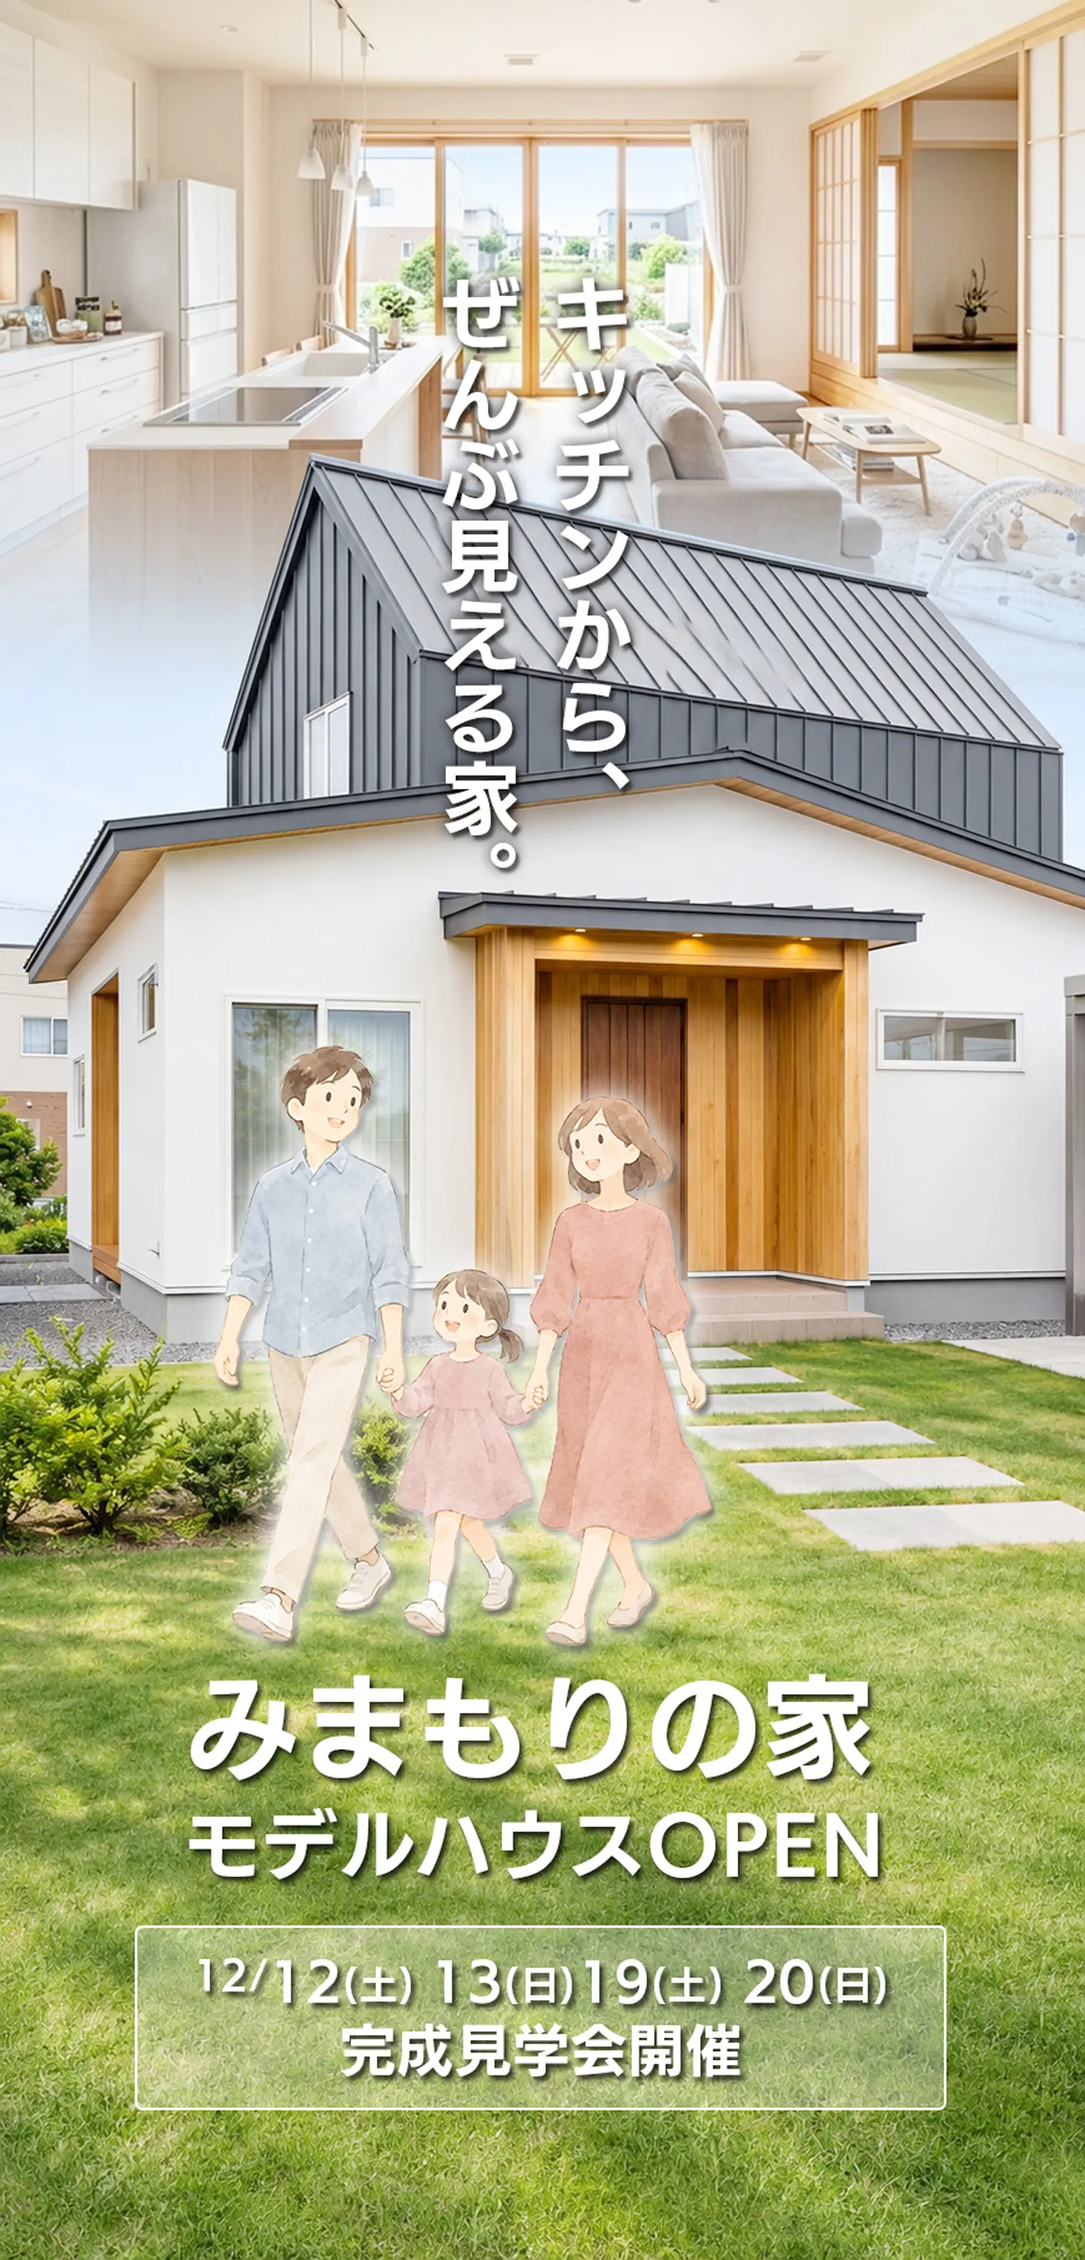
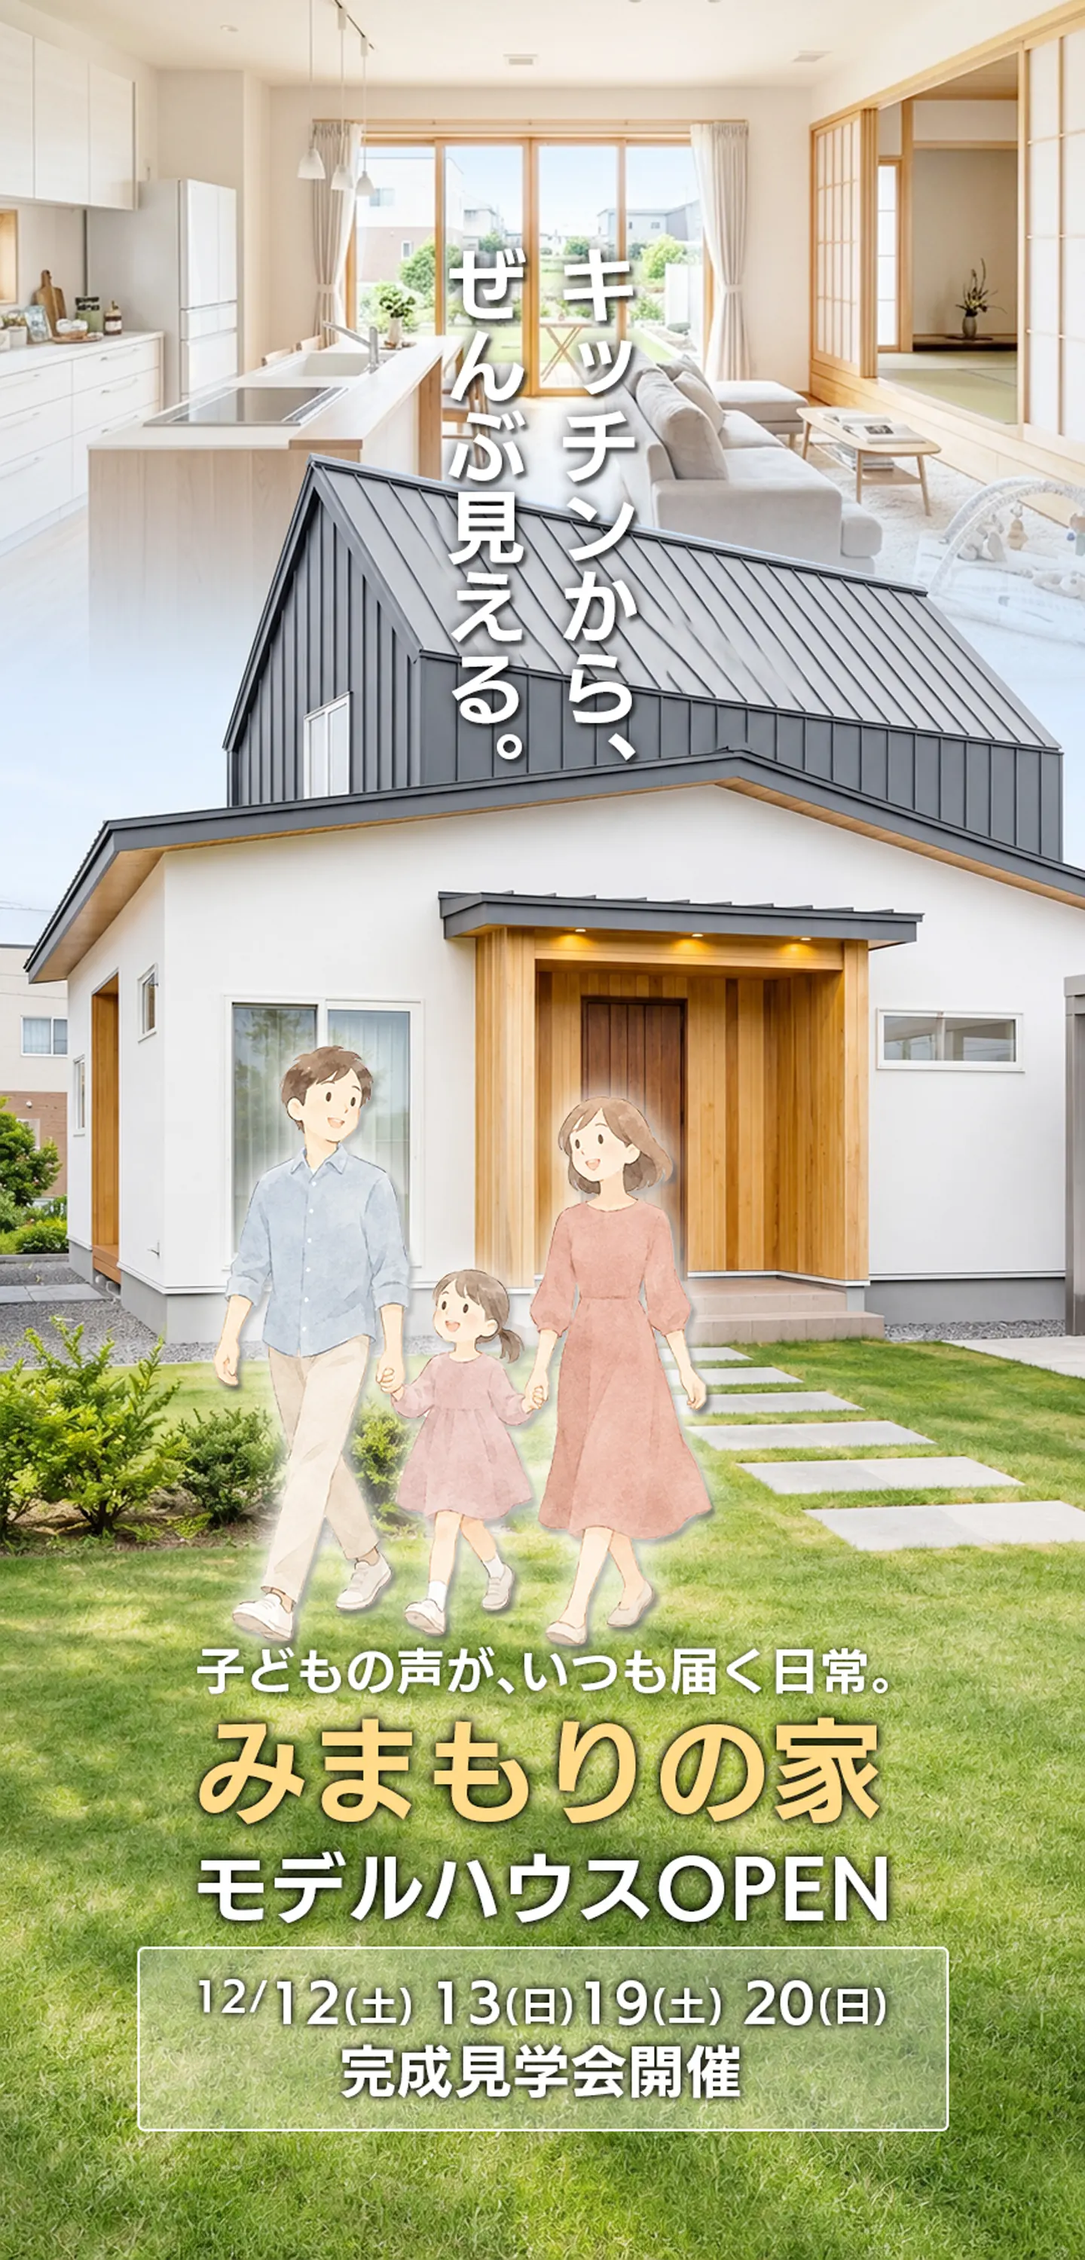
FVを新原画(firstview_v2)に合わせて更新、会場表記を自社モデルハウスに統一
- 縦キャッチを「キッチンから、ぜんぶ見える。」に変更（aria/alt/meta も合わせて更新）
- 新規リード「子どもの声が、いつも届く日常。」を追加（モーションはキャッチとタイトルの間）
- 「みまもりの家」をマスタード(#FFDA8A基準の控えめなグラデ＋ドロップシャドウ)に変更
- タイトル・OPEN・日付枠の縦位置を原画に再計測して調整、ステージ下端を日付枠の下まで表示
- 文字入りFV画像(fv-comp-*)を新原画から再生成（1440/720・webp/jpg）
- 「K様邸」「お施主様」表記を削除し、会場を「つむぐホーム モデルハウス「みまもりの家」」に統一（番地は確定後に記載）

Changed region(s): [[0.125, 0.7132, 0.875, 0.9613], [0.4062, 0.093, 0.5938, 0.4031]]

diff --git a/index.html b/index.html
@@ -5,7 +5,7 @@
 <meta name="viewport" content="width=device-width, initial-scale=1, viewport-fit=cover">
 <title>みまもりの家 モデルハウスOPEN｜住宅見学会・ご予約｜株式会社つむぐホーム</title>
 <!-- 仮コピー -->
-<meta name="description" content="キッチンから、ぜんぶ見える。新潟市中央区美沢台2丁目のモデルハウス「みまもりの家」見学会。見学無料・お子様連れ歓迎。WEB予約でQUOカード500円分プレゼント。">
+<meta name="description" content="キッチンから、ぜんぶ見える。新潟市中央区美沢台2丁目、つむぐホーム モデルハウス「みまもりの家」の見学会。見学無料・お子様連れ歓迎。WEB予約でQUOカード500円分プレゼント。">
 <meta name="theme-color" content="#FAF7F0">
 <link rel="preconnect" href="https://fonts.googleapis.com">
 <link rel="preconnect" href="https://fonts.gstatic.com" crossorigin>
@@ -72,7 +72,7 @@
 </svg>
 
 <div class="fv" id="top">
-  <!-- FV：文字なし背景（images/fv-bg-*）＋HTML文字。デザイン原画（Photoshop）は firstview.jpg（1440×2999）。
+  <!-- FV：文字なし背景（images/fv-bg-*）＋HTML文字。デザイン原画（Photoshop）は firstview_v2.jpg（1440×2999）。
        ▼ 切り替え：文字入り1枚モードにするには、styles.css の「FV表示モード」の2行を入れ替える（既定＝HTML文字版） -->
   <div class="fv__stage">
     <picture>
@@ -85,11 +85,12 @@
       <source type="image/webp" srcset="images/fv-comp-720.webp 720w, images/fv-comp-1440.webp 1440w" sizes="(min-width: 1024px) 48vh, 100vw">
       <img src="images/fv-comp-720.jpg" srcset="images/fv-comp-720.jpg 720w, images/fv-comp-1440.jpg 1440w" sizes="(min-width: 1024px) 48vh, 100vw"
            width="720" height="1500" loading="lazy" decoding="async"
-           alt="白い壁と黒い屋根のモデルハウス「みまもりの家」の前を歩く親子3人。「キッチンから、ぜんぶ見える家。」みまもりの家 モデルハウスOPEN。12月12日(土)・13日(日)・19日(土)・20日(日) 完成見学会開催。">
+           alt="白い壁と黒い屋根のモデルハウス「みまもりの家」の前を歩く親子3人。「キッチンから、ぜんぶ見える。」「子どもの声が、いつも届く日常。」みまもりの家 モデルハウスOPEN。12月12日(土)・13日(日)・19日(土)・20日(日) 完成見学会開催。">
     </picture>
     <!-- 下部の文字（ステージ基準＝画像と同じ位置に載る） -->
     <div class="fv__text fv__bottom">
-      <h1 class="fv__name"><span class="fv__name-t">みまもりの家</span><span class="fv__open">モデルハウスOPEN</span></h1>
+      <p class="fv__lead">子どもの声が、いつも届く日常。</p>
+      <h1 class="fv__name"><span class="fv__name-t"><span class="fv__name-g">みまもりの家</span></span><span class="fv__open">モデルハウスOPEN</span></h1>
       <!-- 仮：日付確定後に差し替え（FV・03の表・フォーム js/main.js の EVENT_DATES を合わせる） -->
       <div class="fv__date">
         <p class="fv__date-d"><span><sup>12/</sup>12<small>(土)</small></span> <span>13<small>(日)</small></span> <span>19<small>(土)</small></span> <span>20<small>(日)</small></span></p>
@@ -98,7 +99,7 @@
     </div>
   </div>
   <!-- 縦書き（コンテナ基準：短い画面では画像が上にずれるため、上端を確保して家族に重ねない） -->
-  <p class="fv__text fv__tate"><span>キッチンから、</span><span>ぜんぶ見える家。</span></p>
+  <p class="fv__text fv__tate"><span>キッチンから、</span><span>ぜんぶ見える。</span></p>
 </div>
 
 <main id="main" class="main">
@@ -119,7 +120,7 @@
     <table class="info-table">
       <caption class="visually-hidden">モデルハウス見学会の開催情報</caption>
       <tbody>
-        <tr><th scope="row">所在地</th><td>新潟市中央区美沢台2丁目（K様邸）</td></tr>
+        <tr><th scope="row">会場</th><td>つむぐホーム モデルハウス「みまもりの家」<br>新潟市中央区美沢台2丁目<span class="tentative">仮</span><small class="access__tbd">※番地は確定後に記載</small></td></tr>
         <!-- ▼▼ 開催日（仮）：確定後に差し替えてください。FVの帯・丸バッジ、フォームの日付（js/main.js の EVENT_DATES）も合わせて変更 ▼▼ -->
         <tr><th scope="row">開催日</th><td>2026年12月12日(土)・13日(日)<br>19日(土)・20日(日)<span class="tentative">仮</span></td></tr>
         <!-- ▲▲ 開催日（仮）ここまで ▲▲ -->
@@ -170,8 +171,7 @@
              width="480" height="634" loading="lazy" decoding="async" alt="ウッドデッキと芝生の庭から見たみまもりの家の水彩イラスト。">
       </picture>
       <figcaption>
-        <span class="worldview__quote">「キッチンからデッキの子どもにも声が届くのが、この家の決め手でした」</span>
-        <span class="worldview__who">（30代ご夫婦＋お子様1人）</span>
+        <span class="worldview__quote">「キッチンからデッキの子どもにも、声が届く。」</span>
         <small>※外観パースはイメージです</small>
       </figcaption>
     </figure>
@@ -424,7 +424,7 @@
       <div class="perk__badge"><small>ご予約来場特典</small><b>QUOカード</b><strong>500円分</strong><em>プレゼント！</em></div>
       <p class="perk__text">WEBまたはお電話でご予約ください<small>（前日まで受付）</small></p>
     </div>
-    <p class="note note--light">※お施主様のご厚意による公開のため、室内の撮影はご遠慮ください。<br>※混雑時はお待ちいただく場合があります。</p>
+    <p class="note note--light">※ご来場の皆さまへの配慮のため、室内の撮影はご遠慮ください。<br>※混雑時はお待ちいただく場合があります。</p>
     <div class="also">
       <p class="also__label">同時開催</p>
       <p><strong>スマートホーム説明会</strong><br>スマートフォン等から遠隔操作や自動化によって、暮らしの利便性や快適性を高める仕組みをご紹介。</p>
@@ -443,7 +443,7 @@
       <details><summary>子ども連れでも大丈夫ですか？</summary><p>お子様連れ歓迎です。見学は無料です。</p></details>
       <details><summary>見学にはどのくらい時間がかかりますか？</summary><p>ご見学は30分ほどから、現地スタッフがご案内します。</p></details>
       <details><summary>駐車場はありますか？</summary><p>駐車場は2台分です（バリアフリー優先駐車場あり）。満車の際は係員の誘導に従ってください。</p></details>
-      <details><summary>室内の写真を撮ってもいいですか？</summary><p>お施主様のご厚意による公開のため、室内の撮影はご遠慮ください。仕様書・図面集は会場でお配りしています。</p></details>
+      <details><summary>室内の写真を撮ってもいいですか？</summary><p>ご来場の皆さまへの配慮のため、室内の撮影はご遠慮ください。仕様書・図面集は会場でお配りしています。</p></details>
       <details><summary>QUOカードはどうすればもらえますか？</summary><p>ご予約のうえご来場いただいた方に、QUOカード500円分をプレゼントします。</p></details>
     </div>
   </div>
@@ -452,7 +452,7 @@
   <div class="inner">
     <p class="eyebrow">ACCESS</p>
     <h2 class="h-serif" id="access-title">交通のご案内</h2>
-    <p class="access__place">会場：新潟市中央区美沢台2丁目 K様邸</p>
+    <p class="access__place">会場：つむぐホーム モデルハウス「みまもりの家」<br>新潟市中央区美沢台2丁目<small class="access__tbd">※番地は確定後に記載</small></p>
     <!-- 地図プレースホルダー：本番では Google マップ等の埋め込み、または地図画像に差し替えてください -->
     <div class="map-placeholder" role="img" aria-label="地図（準備中）。美沢台駅から駅前通りを南へ、国道8号を越えて中央公園の南側が会場です。">
       <span>MAP（準備中）</span>

diff --git a/css/styles.css b/css/styles.css
@@ -211,6 +211,7 @@ p + p{margin-top:1em}
    ========================================================= */
 .access{background:var(--cream)}
 .access__place{font-weight:700;margin-bottom:14px}
+.access__tbd{display:block;font-weight:400;font-size:12px;line-height:1.5;color:var(--ink-2);margin-top:2px}
 .map-placeholder{aspect-ratio:16/10;border-radius:var(--radius);border:2px dashed #B9B39F;background:#EFEBDF;display:grid;place-content:center;text-align:center;color:var(--ink-2);gap:6px;padding:16px}
 .map-placeholder span{font-weight:700;letter-spacing:.2em}
 .map-placeholder small{font-size:12px}
@@ -528,13 +529,13 @@ html{scroll-padding-top:calc(var(--hdr) + 8px)}
 /* =========================================================
    v5：FV＝文字なし背景画像＋HTML文字（Photoshop原画 firstview.jpg 1440×2999 の実測比率で再現）
    ・--u は「原画の1px」に相当する長さ。FV幅（またはFVの高さ）に追従して全体が同じ比率で拡縮
-   ・画像は幅基準で表示し、縦が足りない画面ではまず下の芝生（下端6.6%）を切り、それでも足りなければ上（天井）を切る
+   ・画像は幅基準で表示し、縦が足りない画面ではまず下の芝生（日付枠の下）を切り、それでも足りなければ上（天井）を切る
    ========================================================= */
 .fv{position:relative;overflow:hidden;background:#dfe6e8;color:#fff;container:fv / size;
   height:calc(100vh - var(--hdr) - var(--bar-h));height:calc(100svh - var(--hdr) - var(--bar-h) - env(safe-area-inset-bottom));min-height:360px;
   --w:max(100cqw, calc(100cqh * 1440 / 2999));            /* 画像（ステージ）の表示幅 */
   --u:calc(var(--w) / 1440);                                /* 原画1pxぶん */
-  --st:min(0px, calc(100cqh - var(--w) * 1.945));          /* ステージ上端（下端6.6%まで切ってよい） */
+  --st:min(0px, calc(100cqh - var(--w) * 1.975));          /* ステージ上端（日付枠の下に約14px分の余白を残し、それより下の芝生は切ってよい） */
   --tk:1}
 .fv__stage{position:absolute;left:50%;top:var(--st);width:var(--w);height:calc(var(--w) * 2999 / 1440);transform:translateX(-50%)}
 .fv__stage picture{position:absolute;inset:0;display:block}
@@ -548,18 +549,25 @@ html{scroll-padding-top:calc(var(--hdr) + 8px)}
 
 .fv__text{color:#fff;font-family:var(--sans);font-weight:900;font-feature-settings:"palt" 0;
   text-shadow:calc(var(--u)*4) calc(var(--u)*6) calc(var(--u)*12) rgba(0,0,0,.5)}
-/* 縦書き2列（右列：キッチンから、／左列：ぜんぶ見える家。） */
+/* 縦書き2列（右列：キッチンから、／左列：ぜんぶ見える。） */
 .fv__tate{position:absolute;z-index:2;margin:0;writing-mode:vertical-rl;white-space:nowrap;height:max-content;width:max-content;
-  font-size:calc(var(--u) * 109 * var(--tk));line-height:1.367;letter-spacing:0;
-  left:calc(50% - var(--u) * 11);transform:translateX(-50%);
-  top:max(calc(var(--u) * 28), calc(var(--st) + var(--u) * 350))}
+  font-size:calc(var(--u) * 107.5 * var(--tk));line-height:1.367;letter-spacing:0;
+  left:calc(50% - var(--u) * 0.5);transform:translateX(-50%);
+  top:max(calc(var(--u) * 28), calc(var(--st) + var(--u) * 317))}
 .fv__tate span{display:block}
-/* 下部：みまもりの家／モデルハウスOPEN／日付の枠 */
+/* 下部：リード一行／みまもりの家（マスタード）／モデルハウスOPEN／日付の枠 */
+.fv__lead{position:absolute;left:0;right:0;top:calc(var(--u) * 2181);margin:0;text-align:center;padding-left:calc(var(--u) * 9);
+  font-size:calc(var(--u) * 66);line-height:1;font-weight:700;letter-spacing:.045em;font-feature-settings:"palt" 1;white-space:nowrap}
+/* タイトル：原画の実測色 #FFDA8A（ほぼ一色）を基準に、ごく控えめなグラデ。文字影は filter:drop-shadow（background-clip:text では text-shadow が使えないため） */
+.fv__name-g{display:inline-block;color:#FFDA8A;
+  background:linear-gradient(180deg,#FFDF95 0%,#FFDA8A 50%,#FDD582 100%);-webkit-background-clip:text;background-clip:text;-webkit-text-fill-color:transparent;
+  filter:drop-shadow(calc(var(--u)*4) calc(var(--u)*6) calc(var(--u)*6) rgba(0,0,0,.5))}
+@supports not ((-webkit-background-clip:text) or (background-clip:text)){.fv__name-g{-webkit-text-fill-color:currentColor}}
 .fv__bottom{position:absolute;inset:0;z-index:2;pointer-events:none}
-.fv__name{position:absolute;left:0;right:0;top:calc(var(--u) * 2210);margin:0;text-align:center;padding-right:calc(var(--u) * 29);
+.fv__name{text-shadow:none;position:absolute;left:0;right:0;top:calc(var(--u) * 2268);margin:0;text-align:center;padding-right:calc(var(--u) * 6);
   font-size:calc(var(--u) * 150);line-height:1;font-weight:900;letter-spacing:.02em;white-space:nowrap}
-.fv__open{position:absolute;left:0;right:0;top:calc(var(--u) * 183);padding-right:calc(var(--u) * 24);font-size:calc(var(--u) * 104.2);line-height:1;font-weight:900;letter-spacing:.01em}
-.fv__date{position:absolute;left:calc(var(--u) * 179);width:calc(var(--u) * 1076);top:calc(var(--u) * 2555);height:calc(var(--u) * 245);
+.fv__open{position:absolute;left:0;right:0;top:calc(var(--u) * 183);padding-right:0;font-size:calc(var(--u) * 104.2);line-height:1;font-weight:900;letter-spacing:.01em}
+.fv__date{position:absolute;left:calc(var(--u) * 182);width:calc(var(--u) * 1077);top:calc(var(--u) * 2583);height:calc(var(--u) * 245);
   border:max(1px, calc(var(--u) * 2.5)) solid rgba(255,255,255,.85);border-radius:calc(var(--u) * 16);
   background:rgba(255,255,255,.22);-webkit-backdrop-filter:blur(2px);backdrop-filter:blur(2px);box-shadow:none;text-align:center}
 .fv__date p{position:absolute;left:0;right:0;margin:0;line-height:1;white-space:nowrap}

diff --git a/js/main.js b/js/main.js
@@ -58,7 +58,7 @@
           { id: 'washitsu', name: '和室', size: '6帖', kind: 'tatami', shape: [[20,235],[130,235],[130,310],[20,310]], lx: 82, ly: 270, sub: '押入・客間',
             copy: 'おもちゃを広げても、そのままお昼寝しても。引き戸を閉めれば客間にもなる、家族のもうひとつの居場所です。', meta: '場所：1F・LDK南側　用途：遊び場、お昼寝、客間' },
           { id: 'deck', name: 'ウッドデッキ', size: 'BBQ', kind: 'ext', shape: [[150,318],[320,318],[320,348],[150,348]], lx: 235, ly: 337,
-            copy: 'LDKから続くウッドデッキ。BBQも楽しめます。キッチンからデッキの子どもにも声が届きます。', meta: '視線の先：キッチンから' }, // 仮コピー（事実：ウッドデッキ（BBQ）・お施主様の声）
+            copy: 'LDKから続くウッドデッキ。BBQも楽しめます。キッチンからデッキの子どもにも声が届きます。', meta: '視線の先：キッチンから' }, // 仮コピー（事実：ウッドデッキ（BBQ））
           { id: 'garden', name: '庭', size: '', kind: 'garden', shape: [[20,354],[340,354],[340,390],[20,390]], lx: 180, ly: 376,
             copy: '芝生の庭。デッキと合わせて、外遊びの場所に。', meta: '場所：南側' }, // 仮コピー
         ],

diff --git a/css/motion.css b/css/motion.css
@@ -43,6 +43,7 @@
   /* ---------- 3. FVの入場（約1.6秒。背景は透明にせず .4 から＝LCPを遅らせない） ---------- */
   .js:not(.motion-off) .fv__stage > picture:not(.fv__comp){animation:moBg .6s ease-out both}
   .js:not(.motion-off) .fv__tate{animation:moFvIn .8s var(--mo-ease) .35s both}
+  .js:not(.motion-off) .fv__lead{animation:moFvIn .8s var(--mo-ease) .48s both}
   .js:not(.motion-off) .fv__name-t{animation:moFvIn .8s var(--mo-ease) .6s both}
   .js:not(.motion-off) .fv__open{animation:moFvIn .8s var(--mo-ease) .75s both}
   .js:not(.motion-off) .fv__date{animation:moFvIn .7s var(--mo-ease) .9s both}

diff --git a/README.md b/README.md
@@ -13,3 +13,7 @@
 - `js/motion.js` … IntersectionObserver で一度だけ表示（`CONFIG`：段差 `staggerMs`、発火位置 `rootMargin`）。対象要素のセレクタは `REVEAL` / `REVEAL_FADE` / `WIPE`。デスクトップ（hover可・マウス）のみ Lenis を起動し、ページ内リンクは固定ヘッダー分を考慮してスクロール。
 - `js/vendor/lenis.min.js` … Lenis v1.3.27（MIT、`lenis-LICENSE.txt`）。3D模型（`data-lenis-prevent-wheel`）とメニュー（`data-lenis-prevent`）ではホイールを奪いません。
 - JS無効／`prefers-reduced-motion: reduce`／motion.js が起動しない場合は全て表示（`<html>` の `.js` と `.motion-off` で制御）。
+
+## FV（ファーストビュー）
+- 原画は Photoshop の `firstview_v2.jpg`（1440×2999）。文字なし背景（`images/fv-bg-*`）＋HTML文字で再現。位置・サイズは原画の実測値（`--u`＝原画1px）。文字入り1枚画像（`images/fv-comp-*`）に切り替える場合は `styles.css` の「FV表示モード」の2行を入れ替え。
+- 会場表記は「つむぐホーム モデルハウス『みまもりの家』」（番地は確定後に記載）。FV原画内の「完成見学会開催」は原画どおり。
